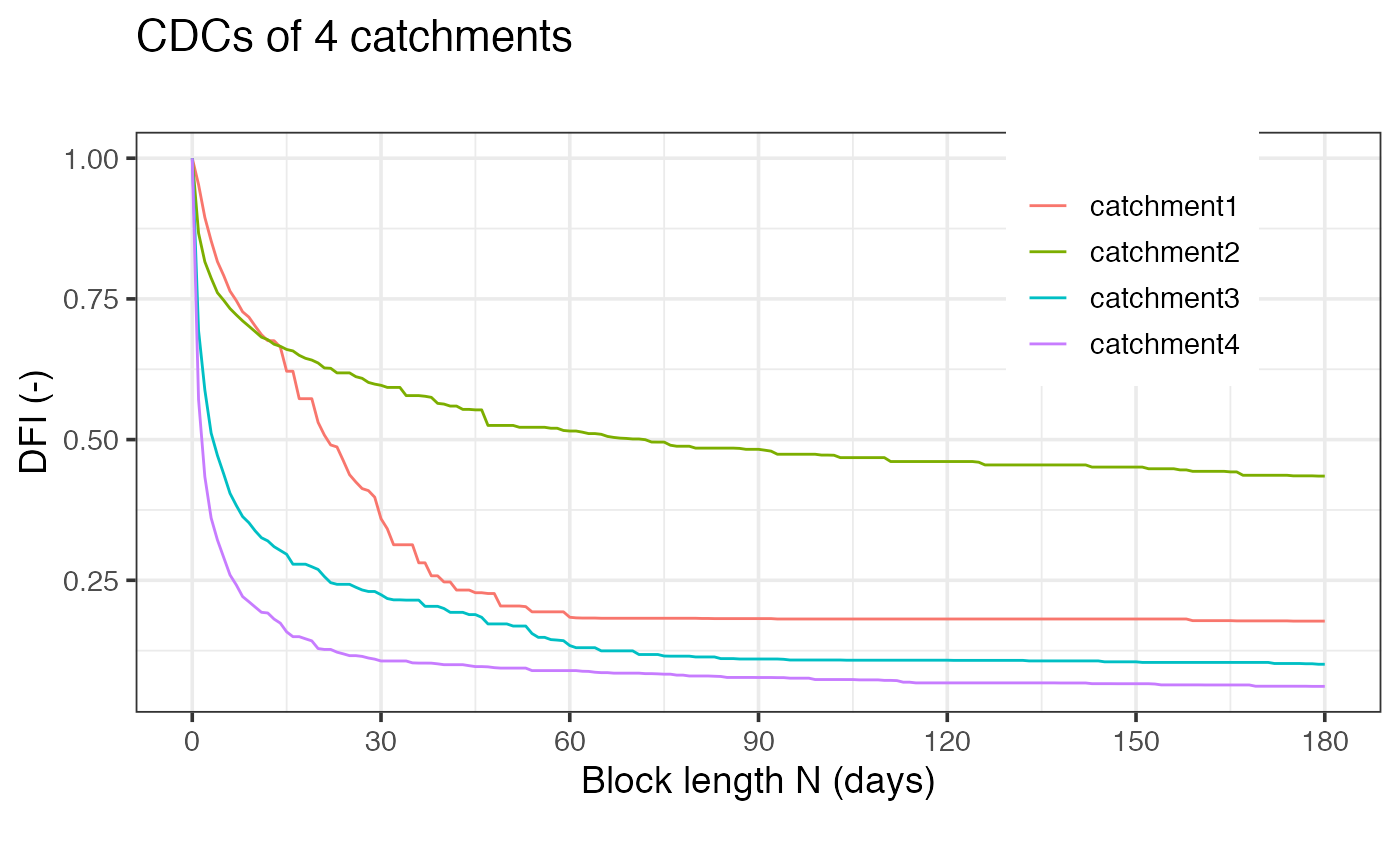
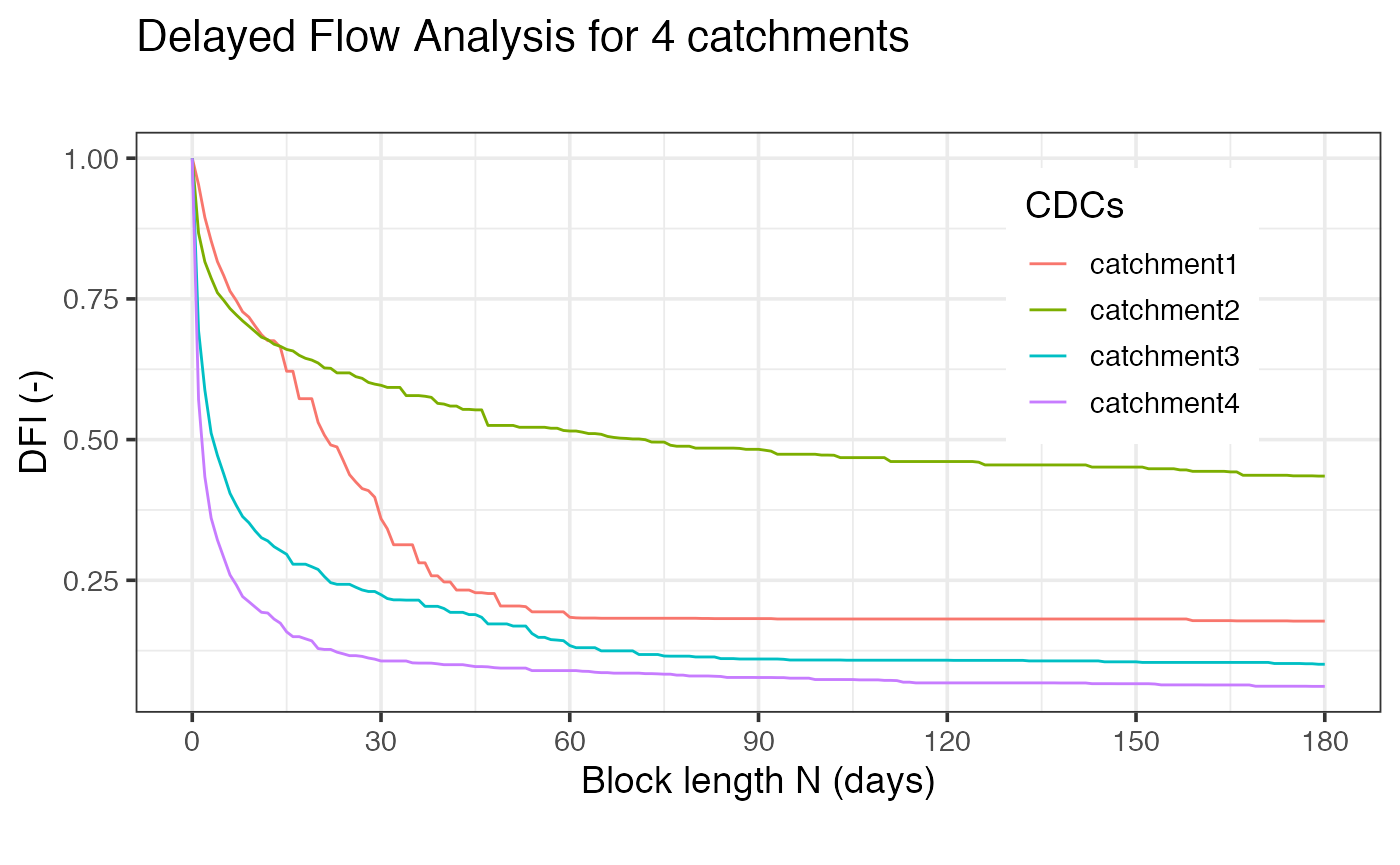
update

diff --git a/docs/articles/tidy_streamflow_contr.html b/docs/articles/tidy_streamflow_contr.html
@@ -5,13 +5,13 @@
 <meta charset="utf-8">
 <meta http-equiv="X-UA-Compatible" content="IE=edge">
 <meta name="viewport" content="width=device-width, initial-scale=1.0">
-<title>delayedflow analysis in R tidyverse • delayedflow</title>
+<title>Delayedflow Analysis in R tidyverse • delayedflow</title>
 <!-- jquery --><script src="https://cdnjs.cloudflare.com/ajax/libs/jquery/3.4.1/jquery.min.js" integrity="sha256-CSXorXvZcTkaix6Yvo6HppcZGetbYMGWSFlBw8HfCJo=" crossorigin="anonymous"></script><!-- Bootstrap --><link rel="stylesheet" href="https://cdnjs.cloudflare.com/ajax/libs/twitter-bootstrap/3.4.1/css/bootstrap.min.css" integrity="sha256-bZLfwXAP04zRMK2BjiO8iu9pf4FbLqX6zitd+tIvLhE=" crossorigin="anonymous">
 <script src="https://cdnjs.cloudflare.com/ajax/libs/twitter-bootstrap/3.4.1/js/bootstrap.min.js" integrity="sha256-nuL8/2cJ5NDSSwnKD8VqreErSWHtnEP9E7AySL+1ev4=" crossorigin="anonymous"></script><!-- bootstrap-toc --><link rel="stylesheet" href="../bootstrap-toc.css">
 <script src="../bootstrap-toc.js"></script><!-- Font Awesome icons --><link rel="stylesheet" href="https://cdnjs.cloudflare.com/ajax/libs/font-awesome/5.12.1/css/all.min.css" integrity="sha256-mmgLkCYLUQbXn0B1SRqzHar6dCnv9oZFPEC1g1cwlkk=" crossorigin="anonymous">
 <link rel="stylesheet" href="https://cdnjs.cloudflare.com/ajax/libs/font-awesome/5.12.1/css/v4-shims.min.css" integrity="sha256-wZjR52fzng1pJHwx4aV2AO3yyTOXrcDW7jBpJtTwVxw=" crossorigin="anonymous">
 <!-- clipboard.js --><script src="https://cdnjs.cloudflare.com/ajax/libs/clipboard.js/2.0.6/clipboard.min.js" integrity="sha256-inc5kl9MA1hkeYUt+EC3BhlIgyp/2jDIyBLS6k3UxPI=" crossorigin="anonymous"></script><!-- headroom.js --><script src="https://cdnjs.cloudflare.com/ajax/libs/headroom/0.11.0/headroom.min.js" integrity="sha256-AsUX4SJE1+yuDu5+mAVzJbuYNPHj/WroHuZ8Ir/CkE0=" crossorigin="anonymous"></script><script src="https://cdnjs.cloudflare.com/ajax/libs/headroom/0.11.0/jQuery.headroom.min.js" integrity="sha256-ZX/yNShbjqsohH1k95liqY9Gd8uOiE1S4vZc+9KQ1K4=" crossorigin="anonymous"></script><!-- pkgdown --><link href="../pkgdown.css" rel="stylesheet">
-<script src="../pkgdown.js"></script><meta property="og:title" content="delayedflow analysis in R tidyverse">
+<script src="../pkgdown.js"></script><meta property="og:title" content="Delayedflow Analysis in R tidyverse">
 <meta property="og:description" content="delayedflow">
 <!-- mathjax --><script src="https://cdnjs.cloudflare.com/ajax/libs/mathjax/2.7.5/MathJax.js" integrity="sha256-nvJJv9wWKEm88qvoQl9ekL2J+k/RWIsaSScxxlsrv8k=" crossorigin="anonymous"></script><script src="https://cdnjs.cloudflare.com/ajax/libs/mathjax/2.7.5/config/TeX-AMS-MML_HTMLorMML.js" integrity="sha256-84DKXVJXs0/F8OTMzX4UR909+jtl4G7SPypPavF+GfA=" crossorigin="anonymous"></script><!--[if lt IE 9]>
 <script src="https://oss.maxcdn.com/html5shiv/3.7.3/html5shiv.min.js"></script>
@@ -54,7 +54,7 @@
   </a>
   <ul class="dropdown-menu" role="menu">
 <li>
-      <a href="../articles/tidy_streamflow_contr.html">delayedflow analysis in R tidyverse</a>
+      <a href="../articles/tidy_streamflow_contr.html">Delayedflow Analysis in R tidyverse</a>
     </li>
     <li>
       <a href="../articles/workflow.html">Workflow with delayflow package</a>
@@ -85,7 +85,7 @@
       </header><script src="tidy_streamflow_contr_files/header-attrs-2.3/header-attrs.js"></script><div class="row">
   <div class="col-md-9 contents">
     <div class="page-header toc-ignore">
-      <h1 data-toc-skip>delayedflow analysis in R tidyverse</h1>
+      <h1 data-toc-skip>Delayedflow Analysis in R tidyverse</h1>
                         <h4 class="author">Michael Stölzle</h4>
             
             <h4 class="date">9/25/2020</h4>
@@ -97,6 +97,7 @@
 
     
     
+<p>This is a quick example how to use the delayedflow package in a R tidyverse environment.</p>
 <div class="sourceCode" id="cb1"><pre class="downlit">
 <span class="kw">df</span> <span class="op">&lt;-</span> <span class="fu">read_tsv</span>(<span class="st">'https://raw.githubusercontent.com/modche/science_contr/master/4ezg.txt'</span>, col_types = <span class="fu">cols</span>())
 </pre></div>
@@ -109,12 +110,12 @@
         <span class="fu">geom_line</span>(<span class="fu">aes</span>(colour = <span class="kw">filename</span>)) <span class="op">+</span>
         <span class="fu">scale_x_continuous</span>(breaks = <span class="fu"><a href="https://rdrr.io/r/base/c.html">c</a></span>(<span class="fl">0</span><span class="op">:</span><span class="fl">6</span> <span class="op">*</span> <span class="fl">30</span>)) <span class="op">+</span>
         <span class="fu">theme_bw</span>(<span class="fl">14</span>) <span class="op">+</span>
-        <span class="fu">labs</span>(title = <span class="st">"CDCs of 4 catchments"</span>,
+        <span class="fu">labs</span>(title = <span class="st">"Delayed Flow Analysis for 4 catchments"</span>,
              subtitle = <span class="st">""</span>,
              caption = <span class="st">""</span>, 
-             colour = <span class="st">""</span>,
+             colour = <span class="st">"CDCs"</span>,
              x = <span class="st">"Block length N (days)"</span>, y = <span class="st">"DFI (-)"</span>)<span class="op">+</span>
-        <span class="fu">theme</span>(legend.position = <span class="fu"><a href="https://rdrr.io/r/base/c.html">c</a></span>(<span class="fl">0.80</span>, <span class="fl">0.80</span>))
+        <span class="fu">theme</span>(legend.position = <span class="fu"><a href="https://rdrr.io/r/base/c.html">c</a></span>(<span class="fl">0.80</span>, <span class="fl">0.70</span>))
 </pre></div>
 <p><img src="tidy_streamflow_contr_files/figure-html/unnamed-chunk-2-1.png" width="700"></p>
 <div class="sourceCode" id="cb3"><pre class="downlit">
@@ -148,16 +149,16 @@
         <span class="fu">pivot_wider</span>(names_from = <span class="st">"id"</span>, values_from = <span class="st">"bps"</span>)
 </pre></div>
 <pre><code>## Calculating breakpoints . . . 
-##  0%  25 %  50 %  75 %  100 %  
+##  0%  20 %  40 %  60 %  80 %  100 %  
 ## Breakpoints ready . . . 
 ## Calculating breakpoints . . . 
-##  0%  25 %  50 %  75 %  100 %  
+##  0%  20 %  40 %  60 %  80 %  100 %  
 ## Breakpoints ready . . . 
 ## Calculating breakpoints . . . 
-##  0%  25 %  50 %  75 %  100 %  
+##  0%  20 %  40 %  60 %  80 %  100 %  
 ## Breakpoints ready . . . 
 ## Calculating breakpoints . . . 
-##  0%  25 %  50 %  75 %  100 %  
+##  0%  20 %  40 %  60 %  80 %  100 %  
 ## Breakpoints ready . . .</code></pre>
 <div class="sourceCode" id="cb7"><pre class="downlit">
 <span class="kw">bp_df</span>
@@ -170,23 +171,84 @@
 ## 3 catchment3     3    16    61
 ## 4 catchment4     2     8    30</code></pre>
 <div class="sourceCode" id="cb9"><pre class="downlit">
-<span class="kw">exa1</span> <span class="op">&lt;-</span> <span class="kw">df</span> <span class="op">%&gt;%</span> <span class="fu"><a href="https://rdrr.io/r/stats/filter.html">filter</a></span>(<span class="kw">filename</span> <span class="op">==</span> <span class="st">"catchment4"</span>) <span class="op">%&gt;%</span> 
-    
-    <span class="fu">mutate</span>(interflow = <span class="fu"><a href="../reference/baseflow.html">baseflow</a></span>(<span class="kw">q</span>, block.len = <span class="fu"><a href="https://rdrr.io/r/base/numeric.html">as.numeric</a></span>(<span class="kw">bp_df</span>[<span class="fl">1</span>,<span class="fl">2</span>]))) <span class="op">%&gt;%</span> 
-    <span class="fu">mutate</span>(interflow = <span class="fu"><a href="../reference/baseflow.html">baseflow</a></span>(<span class="kw">q</span>, block.len = <span class="fu"><a href="https://rdrr.io/r/base/numeric.html">as.numeric</a></span>(<span class="kw">bp_df</span>[<span class="fl">1</span>,<span class="fl">2</span>]))) <span class="op">%&gt;%</span> 
-    <span class="fu">mutate</span>(baseflow = <span class="fu"><a href="../reference/baseflow.html">baseflow</a></span>(<span class="kw">q</span>, block.len = <span class="fu"><a href="https://rdrr.io/r/base/numeric.html">as.numeric</a></span>(<span class="kw">bp_df</span>[<span class="fl">1</span>,<span class="fl">3</span>])))
-
-<span class="fu">ggplot</span>(data = <span class="fu"><a href="https://rdrr.io/r/stats/filter.html">filter</a></span>(<span class="kw">exa1</span>, <span class="kw">date</span> <span class="op">&gt;</span> <span class="st">"2000-01-01"</span>)) <span class="op">+</span>
-    <span class="fu">geom_ribbon</span>(<span class="fu">aes</span>(x = <span class="kw">date</span>, ymax = <span class="kw">q</span>, ymin = <span class="fl">0.05</span>), fill = <span class="st">"red"</span>) <span class="op">+</span>
-    <span class="fu">geom_ribbon</span>(<span class="fu">aes</span>(x = <span class="kw">date</span>, ymax = <span class="kw">interflow</span>, ymin = <span class="fl">0.05</span>), fill = <span class="st">"lightblue"</span>) <span class="op">+</span>
-    <span class="fu">geom_ribbon</span>(<span class="fu">aes</span>(x = <span class="kw">date</span>, ymax = <span class="kw">baseflow</span>, ymin = <span class="fl">0.05</span>), fill = <span class="st">"blue"</span>) <span class="op">+</span>
-    <span class="fu">theme_bw</span>(<span class="fl">15</span>) <span class="op">+</span> <span class="fu">scale_y_log10</span>()
+<span class="kw">contr_df</span> <span class="op">&lt;-</span> <span class="kw">df2</span> <span class="op">%&gt;%</span> 
+        <span class="fu">group_by</span>(<span class="kw">filename</span>) <span class="op">%&gt;%</span> 
+        <span class="fu">summarize</span>(rel_contr = <span class="fu"><a href="../reference/find_bps.html">find_bps</a></span>(<span class="kw">cdc</span>, n_bp = <span class="fl">3</span>, bp_max = <span class="fl">65</span>)<span class="op">$</span><span class="kw">rel_contr</span>) <span class="op">%&gt;%</span> 
+        <span class="fu">mutate</span>(class = <span class="fu"><a href="https://rdrr.io/r/base/names.html">names</a></span>(<span class="kw">rel_contr</span>)) <span class="op">%&gt;%</span> 
+        <span class="fu">ungroup</span>()
 </pre></div>
+<pre><code>## Calculating breakpoints . . . 
+##  0%  20 %  40 %  60 %  80 %  100 %  
+## Breakpoints ready . . . 
+## Calculating breakpoints . . . 
+##  0%  20 %  40 %  60 %  80 %  100 %  
+## Breakpoints ready . . . 
+## Calculating breakpoints . . . 
+##  0%  20 %  40 %  60 %  80 %  100 %  
+## Breakpoints ready . . . 
+## Calculating breakpoints . . . 
+##  0%  20 %  40 %  60 %  80 %  100 %  
+## Breakpoints ready . . .</code></pre>
+<div class="sourceCode" id="cb11"><pre class="downlit">
+<span class="kw">contr_df</span>
+</pre></div>
+<pre><code>## # A tibble: 16 x 3
+##    filename   rel_contr class  
+##    &lt;chr&gt;          &lt;dbl&gt; &lt;chr&gt;  
+##  1 catchment1    0.236  contr_1
+##  2 catchment1    0.506  contr_2
+##  3 catchment1    0.0736 contr_3
+##  4 catchment1    0.184  contr_4
+##  5 catchment2    0.184  contr_1
+##  6 catchment2    0.134  contr_2
+##  7 catchment2    0.157  contr_3
+##  8 catchment2    0.525  contr_4
+##  9 catchment3    0.488  contr_1
+## 10 catchment3    0.233  contr_2
+## 11 catchment3    0.148  contr_3
+## 12 catchment3    0.130  contr_4
+## 13 catchment4    0.566  contr_1
+## 14 catchment4    0.213  contr_2
+## 15 catchment4    0.114  contr_3
+## 16 catchment4    0.107  contr_4</code></pre>
+<div class="sourceCode" id="cb13"><pre class="downlit">
+<span class="kw">contr_df_long</span> <span class="op">&lt;-</span> <span class="kw">contr_df</span> <span class="op">%&gt;%</span> 
+    <span class="fu">pivot_longer</span>(<span class="kw">catchment1</span><span class="op">:</span><span class="kw">catchment4</span>, names_to = <span class="st">"name"</span>, values_to = <span class="st">"rel_contr"</span>)
+
+     <span class="co"># contr_df$type = factor(contr_df$type, </span>
+     <span class="co">#                   levels = c("contr_4", "contr_3", "contr_2", "contr_1"),</span>
+     <span class="co">#                   labels = c("baseline", "intermediate_2", "intermediate_1", "short"))</span>
+</pre></div>
+<div class="sourceCode" id="cb14"><pre class="downlit">
+<span class="fu">ggplot</span>(data = <span class="kw">contr_df</span>) <span class="op">+</span> 
+    <span class="fu">geom_col</span>(<span class="fu">aes</span>(x = <span class="kw">rel_contr</span>, y = <span class="kw">filename</span>, fill = <span class="kw">class</span>), 
+                    width = <span class="fl">0.50</span>, 
+                    colour = <span class="st">"black"</span>) <span class="op">+</span>
+    <span class="fu">scale_fill_brewer</span>(palette = <span class="st">"RdBu"</span>, 
+                      direction = <span class="fl">1</span>, 
+                      guide = <span class="fu">guide_legend</span>(reverse = <span class="fl">FALSE</span>),
+                      name = <span class="st">"Delay class"</span>) <span class="op">+</span>
+    <span class="fu">scale_x_continuous</span>(labels = <span class="kw">scales</span>::<span class="fu"><a href="https://scales.r-lib.org//reference/label_percent.html">percent_format</a></span>()) <span class="op">+</span>
+    <span class="fu">theme_bw</span>(<span class="fl">14</span>) <span class="op">+</span>
+    <span class="fu">theme</span>(legend.position = <span class="st">"bottom"</span>) <span class="op">+</span>
+    <span class="fu">labs</span>(title = <span class="st">"Delayed flow contributions"</span>,
+     subtitle = <span class="st">""</span>,
+     caption = <span class="st">""</span>, 
+     x = <span class="st">"\nRelative contribution to streamflow"</span>, y = <span class="st">""</span>)
+</pre></div>
+<p><img src="tidy_streamflow_contr_files/figure-html/unnamed-chunk-6-1.png" width="700"></p>
+<div id="explanation" class="section level2">
+<h2 class="hasAnchor">
+<a href="#explanation" class="anchor"></a>Explanation</h2>
+<p>In this example Catchment #1 has a high proportion of intermediate contributions (i.e. here snow melt from a high alpine catchment). Catchment #2 has &gt; 50% baseline contributions that means it is highly groundwater-dominated. Comparing Catchment #4 vs. Catchment #3 the first one has more short-delayed contributions also visible in the rapid drop in the CDC curve above.</p>
+</div>
   </div>
 
   <div class="col-md-3 hidden-xs hidden-sm" id="pkgdown-sidebar">
 
-      </div>
+        <nav id="toc" data-toggle="toc"><h2 data-toc-skip>Contents</h2>
+    </nav>
+</div>
 
 </div>
 

diff --git a/docs/index.html b/docs/index.html
@@ -56,7 +56,7 @@
   </a>
   <ul class="dropdown-menu" role="menu">
 <li>
-      <a href="articles/tidy_streamflow_contr.html">delayedflow analysis in R tidyverse</a>
+      <a href="articles/tidy_streamflow_contr.html">Delayedflow Analysis in R tidyverse</a>
     </li>
     <li>
       <a href="articles/workflow.html">Workflow with delayflow package</a>
@@ -89,7 +89,7 @@
 <div id="delayedflow" class="section level1">
 <div class="page-header"><h1 class="hasAnchor">
 <a href="#delayedflow" class="anchor"></a>delayedflow</h1></div>
-<p><code>delayedflow</code> is developed to make it quick and easy to perform a delayed flow separation with streamflow data. The package is based on the publication from <a href="https://hess.copernicus.org/articles/24/849/2020/">Stoelzle et al. (2020)</a> where common binary baseflow separation into quick- and baseflow is advanced by the DFI (Delayed Flow Index) to quantify multiple delayed contributions.</p>
+<p><code>delayedflow</code> is developed to make it quick and easy to perform a delayed flow separation with streamflow data. The package is based on the publication from <a href="https://hess.copernicus.org/articles/24/849/2020/">Stoelzle et al. (2020)</a> where common binary baseflow separation into quick- and baseflow is advanced by the DFI (Delayed Flow Index) to quantify multiple delayed contributions to streamflow.</p>
 <p>As in hydrology different sources (e.g. like storm flow, interflow, snow or glacier melt, groundwater) shape the catchments’ hydrographs the DFI method considers specifically the specific streamflow contributions in each catchment. Therefore the hydrograph (streamflow signal) is deconvoluted based on a Characteristic Delay Curve (CDC).</p>
 <p>To gain a CDC multiple streamflow separations are performed to quantify how much faster and how much slower streamflow contributions shape the hydrograph. Instead of having one separation (as for the common BFI, BaseFlow Index) <code>delayedflow</code> performs <code>n</code> separations and created the CDC out of them. Then a breakpoint analysis (<code>find_bp</code>) transforms the normally expotential falling CDC into piecewise linear segments where in between the breakpoints indicating that a faster source stops to contribute to streamflow and a slower source gets more dominate.</p>
 <p>The figure below shows four examples of CDCs in four different catchments and how the breakpoints are used to identify different delayed contributions.</p>

diff --git a/docs/reference/find_bps.html b/docs/reference/find_bps.html
@@ -99,7 +99,7 @@ for different contributions (default)." />
   </a>
   <ul class="dropdown-menu" role="menu">
     <li>
-      <a href="../articles/tidy_streamflow_contr.html">delayedflow analysis in R tidyverse</a>
+      <a href="../articles/tidy_streamflow_contr.html">Delayedflow Analysis in R tidyverse</a>
     </li>
     <li>
       <a href="../articles/workflow.html">Workflow with delayflow package</a>
@@ -225,7 +225,7 @@ is the slowest contribution to streamflow.</p></dd>
     <pre class="examples"><div class='input'><span class='co'># use dfi_example as an DFI vector with 121 values</span>
 <span class='fu'>find_bps</span>(<span class='kw'>dfi_example</span>, n_bp = <span class='fl'>2</span>, bp_max = <span class='fl'>90</span>, plotting = <span class='fl'>TRUE</span>)
 </div><div class='output co'>#&gt; Calculating breakpoints . . . 
-#&gt;  0%  25 %  50 %  75 %  100 %  
+#&gt;  0%  20 %  40 %  60 %  80 %  100 %  
 #&gt; Breakpoints ready . . . </div><div class='img'><img src='find_bps-1.png' alt='' width='700' height='433' /></div><div class='output co'>#&gt; $bps_position
 #&gt; bp_1 bp_2 
 #&gt;    8   60 
@@ -234,7 +234,8 @@ is the slowest contribution to streamflow.</p></dd>
 #&gt; [1] 0.02465472
 #&gt; 
 #&gt; $rel_contr
-#&gt; [1] 0.4590561 0.3518302 0.1891137
+#&gt;   contr_1   contr_2   contr_3 
+#&gt; 0.4590561 0.3518302 0.1891137 
 #&gt; </div></pre>
   </div>
   <div class="col-md-3 hidden-xs hidden-sm" id="pkgdown-sidebar">

diff --git a/docs/reference/dfi_example.html b/docs/reference/dfi_example.html
@@ -97,7 +97,7 @@ This can be used for testing the find_bps function." />
   </a>
   <ul class="dropdown-menu" role="menu">
     <li>
-      <a href="../articles/tidy_streamflow_contr.html">delayedflow analysis in R tidyverse</a>
+      <a href="../articles/tidy_streamflow_contr.html">Delayedflow Analysis in R tidyverse</a>
     </li>
     <li>
       <a href="../articles/workflow.html">Workflow with delayflow package</a>
@@ -169,7 +169,7 @@ This can be used for testing the <a href='find_bps.html'>find_bps</a> function.<
 #&gt; [120] 0.1683539 0.1683539</div><div class='input'>
 <span class='fu'><a href='find_bps.html'>find_bps</a></span>(dfi = <span class='kw'>dfi_example</span>, n_bp = <span class='fl'>1</span>, plotting = <span class='fl'>TRUE</span>)
 </div><div class='output co'>#&gt; Calculating breakpoints . . . 
-#&gt;  0%  24 %  50 %  75 %  100 %  
+#&gt;  0%  19 %  39 %  60 %  80 %  100 %  
 #&gt; Breakpoints ready . . . </div><div class='img'><img src='dfi_example-1.png' alt='' width='700' height='433' /></div><div class='output co'>#&gt; $bps_position
 #&gt; [1] 19
 #&gt; 
@@ -177,7 +177,8 @@ This can be used for testing the <a href='find_bps.html'>find_bps</a> function.<
 #&gt; [1] 0.08097506
 #&gt; 
 #&gt; $rel_contr
-#&gt; [1] 0.5905524 0.4094476
+#&gt;   contr_1   contr_2 
+#&gt; 0.5905524 0.4094476 
 #&gt; </div></pre>
   </div>
   <div class="col-md-3 hidden-xs hidden-sm" id="pkgdown-sidebar">

diff --git a/docs/reference/find_nmax.html b/docs/reference/find_nmax.html
@@ -102,7 +102,7 @@ DFI value with a separation block size of N that match the index value." />
   </a>
   <ul class="dropdown-menu" role="menu">
     <li>
-      <a href="../articles/tidy_streamflow_contr.html">delayedflow analysis in R tidyverse</a>
+      <a href="../articles/tidy_streamflow_contr.html">Delayedflow Analysis in R tidyverse</a>
     </li>
     <li>
       <a href="../articles/workflow.html">Workflow with delayflow package</a>
@@ -181,7 +181,7 @@ the deviation between the indices might be large(r).</p></td>
 <dt>index_value</dt><dd><p>Index value of the used low flow index ranging between 0 and 1.
 Higher values indicating more stable flow regimes and less low flow sensitivity.</p></dd>
 <dt>bp_nmax</dt><dd><p>Position <code>N</code> of breakpoint where absolute deviation between <code>DFI_N</code>
-and low flow index is minimal (considering all <code>DFI</code> values).</p></dd>
+and low flow index is minimal (considering all <code>DFI</code> values), <code><a href='https://rdrr.io/r/base/Extremes.html'>min(which.min(abs(cdc$dfi-index)))</a></code></p></dd>
 
 
     <h2 class="hasAnchor" id="examples"><a class="anchor" href="#examples"></a>Examples</h2>

diff --git a/docs/articles/workflow.html b/docs/articles/workflow.html
@@ -54,7 +54,7 @@
   </a>
   <ul class="dropdown-menu" role="menu">
 <li>
-      <a href="../articles/tidy_streamflow_contr.html">delayedflow analysis in R tidyverse</a>
+      <a href="../articles/tidy_streamflow_contr.html">Delayedflow Analysis in R tidyverse</a>
     </li>
     <li>
       <a href="../articles/workflow.html">Workflow with delayflow package</a>
@@ -146,7 +146,7 @@
                plotting = <span class="fl">TRUE</span>)
 </pre></div>
 <pre><code>## Calculating breakpoints . . . 
-##  0%  25 %  50 %  75 %  100 %  
+##  0%  20 %  40 %  60 %  80 %  100 %  
 ## Breakpoints ready . . .</code></pre>
 <p><img src="workflow_files/figure-html/unnamed-chunk-3-1.png" width="700"></p>
 <p>Looking at:</p>
@@ -168,7 +168,8 @@
 <div class="sourceCode" id="cb13"><pre class="downlit">
 <span class="kw">bps</span><span class="op">$</span><span class="kw">rel_contr</span>
 </pre></div>
-<pre><code>## [1] 0.4516284 0.2286085 0.2107172 0.1090459</code></pre>
+<pre><code>##   contr_1   contr_2   contr_3   contr_4 
+## 0.4516284 0.2286085 0.2107172 0.1090459</code></pre>
 </div>
 <div id="estimation-of-nmax" class="section level1">
 <h1 class="hasAnchor">

diff --git a/docs/reference/baseflow.html b/docs/reference/baseflow.html
@@ -95,7 +95,7 @@
   </a>
   <ul class="dropdown-menu" role="menu">
     <li>
-      <a href="../articles/tidy_streamflow_contr.html">delayedflow analysis in R tidyverse</a>
+      <a href="../articles/tidy_streamflow_contr.html">Delayedflow Analysis in R tidyverse</a>
     </li>
     <li>
       <a href="../articles/workflow.html">Workflow with delayflow package</a>
@@ -157,6 +157,10 @@
     <h2 class="hasAnchor" id="value"><a class="anchor" href="#value"></a>Value</h2>
 
     <p>Baseflow series.</p>
+    <h2 class="hasAnchor" id="references"><a class="anchor" href="#references"></a>References</h2>
+
+    <p>lfstat: Calculation of Low Flow Statistics for Daily Stream Flow Data
+D. Koffler, T. Gauster, T., and G. Laaha (https://CRAN.R-project.org/package=lfstat)</p>
 
     <h2 class="hasAnchor" id="examples"><a class="anchor" href="#examples"></a>Examples</h2>
     <pre class="examples"><div class='input'><span class='co'>if</span> (<span class='fl'>FALSE</span>) {

diff --git a/docs/news/index.html b/docs/news/index.html
@@ -94,7 +94,7 @@
   </a>
   <ul class="dropdown-menu" role="menu">
     <li>
-      <a href="../articles/tidy_streamflow_contr.html">delayedflow analysis in R tidyverse</a>
+      <a href="../articles/tidy_streamflow_contr.html">Delayedflow Analysis in R tidyverse</a>
     </li>
     <li>
       <a href="../articles/workflow.html">Workflow with delayflow package</a>
@@ -147,7 +147,9 @@
 <a href="#delayedflow-011" class="anchor"></a>delayedflow 0.11</h3>
 <ul>
 <li>adding function <code><a href="../reference/find_nmax.html">find_nmax()</a></code> to derive a <code>nmax</code> value.</li>
-<li>change many paramter names to more meaningful terms (e.g. <code>bp_mingap</code>).</li>
+<li>change many parameter names to more meaningful terms (e.g. <code>bp_mingap</code>).</li>
+<li>
+<code>mam_mq</code> as delaut low flow index, only one index output is now possible.</li>
 </ul>
 </div>
 </div>

diff --git a/docs/articles/index.html b/docs/articles/index.html
@@ -94,7 +94,7 @@
   </a>
   <ul class="dropdown-menu" role="menu">
     <li>
-      <a href="../articles/tidy_streamflow_contr.html">delayedflow analysis in R tidyverse</a>
+      <a href="../articles/tidy_streamflow_contr.html">Delayedflow Analysis in R tidyverse</a>
     </li>
     <li>
       <a href="../articles/workflow.html">Workflow with delayflow package</a>
@@ -133,7 +133,7 @@
       <p class="section-desc"></p>
 
       <dl>
-        <dt><a href="tidy_streamflow_contr.html">delayedflow analysis in R tidyverse</a></dt>
+        <dt><a href="tidy_streamflow_contr.html">Delayedflow Analysis in R tidyverse</a></dt>
         <dd></dt>
         <dt><a href="workflow.html">Workflow with delayflow package</a></dt>
         <dd></dt>

diff --git a/docs/reference/q_data.html b/docs/reference/q_data.html
@@ -97,7 +97,7 @@ State Institute of Environment, https://www.lubw.baden-wuerttemberg.de/startseit
   </a>
   <ul class="dropdown-menu" role="menu">
     <li>
-      <a href="../articles/tidy_streamflow_contr.html">delayedflow analysis in R tidyverse</a>
+      <a href="../articles/tidy_streamflow_contr.html">Delayedflow Analysis in R tidyverse</a>
     </li>
     <li>
       <a href="../articles/workflow.html">Workflow with delayflow package</a>

diff --git a/docs/reference/dfi_n.html b/docs/reference/dfi_n.html
@@ -100,7 +100,7 @@ streamflow peaks are separated from delayed flow." />
   </a>
   <ul class="dropdown-menu" role="menu">
     <li>
-      <a href="../articles/tidy_streamflow_contr.html">delayedflow analysis in R tidyverse</a>
+      <a href="../articles/tidy_streamflow_contr.html">Delayedflow Analysis in R tidyverse</a>
     </li>
     <li>
       <a href="../articles/workflow.html">Workflow with delayflow package</a>

diff --git a/docs/reference/index.html b/docs/reference/index.html
@@ -94,7 +94,7 @@
   </a>
   <ul class="dropdown-menu" role="menu">
     <li>
-      <a href="../articles/tidy_streamflow_contr.html">delayedflow analysis in R tidyverse</a>
+      <a href="../articles/tidy_streamflow_contr.html">Delayedflow Analysis in R tidyverse</a>
     </li>
     <li>
       <a href="../articles/workflow.html">Workflow with delayflow package</a>
